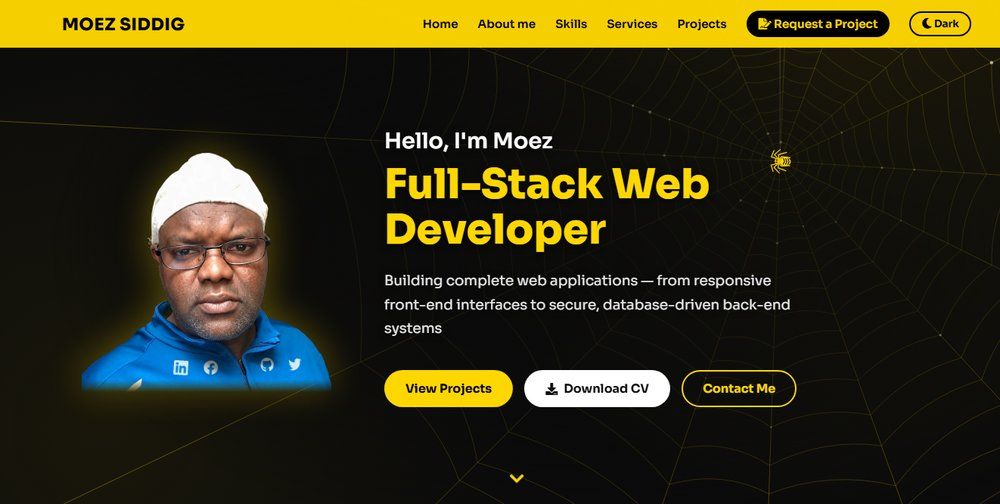
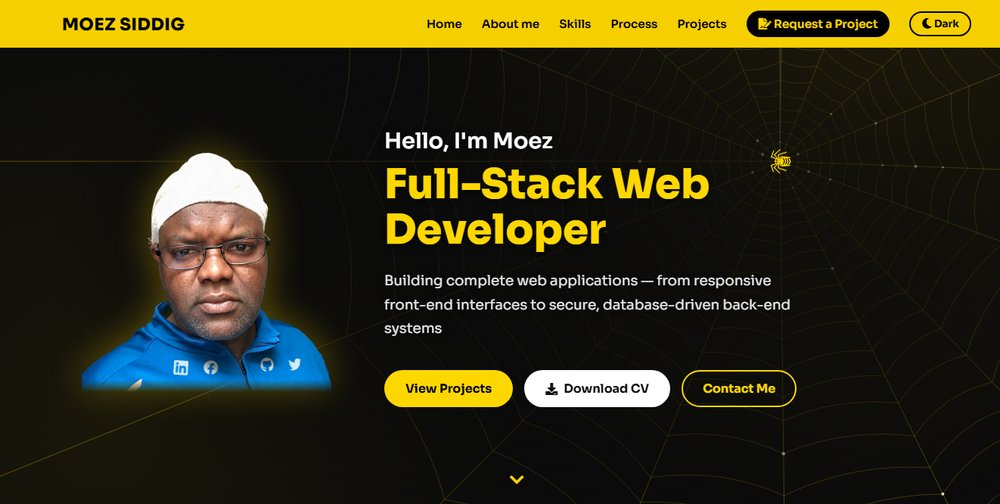
Replace Services with a 6-step web development life cycle
- New My Process section: Plan, Design, Develop, Test, Deploy, Maintain
- Numbered dark cards, 3/2/1 columns by screen size, menu link renamed to Process
- Refresh the hero thumbnail and social preview with the new menu

Changed region(s): [[0.403, 0.0298, 0.651, 0.0595], [0.496, 0.9226, 0.527, 0.9524]]

diff --git a/index.html b/index.html
@@ -26,7 +26,7 @@
   <!-- Font Awesome icons and main CSS file -->
   <link rel="stylesheet" href="https://cdnjs.cloudflare.com/ajax/libs/font-awesome/5.15.4/css/all.min.css" />
   <!-- ?v= changes with each release so browsers never mix old cached files with the new page -->
-  <link rel="stylesheet" href="css/style.css?v=2026-11-17g"/>
+  <link rel="stylesheet" href="css/style.css?v=2026-11-17h"/>
 </head>
 <body>
   <!-- Apply the saved dark mode before the page is drawn (avoids a light flash) -->
@@ -55,7 +55,7 @@
       <a href="#home">Home</a>
       <a href="#about-me">About me</a>
       <a href="#skills">Skills</a>
-      <a href="#services">Services</a>
+      <a href="#process">Process</a>
       <a href="#projects">Projects</a>
       <a href="#request" class="nav-cta">
         <i class="fas fa-file-signature"></i> Request a Project
@@ -182,27 +182,54 @@
     </p>
   </section>
 
-  <!-- Services section -->
-  <section class="services" id="services">
-    <h2 class="title">Services</h2>
+  <!-- Process section: what I offer, step by step through the web development life cycle -->
+  <section class="process" id="process">
+    <h2 class="title">My Process</h2>
+    <p class="section-intro">From idea to launch: I take care of the full web development life cycle.</p>
 
-    <div class="content">
-      <div class="card">
-        <div class="info">
-          <div class="card-icon"><i class="fas fa-code"></i></div>
-          <h3>Coding</h3>
-          <p>Building full-stack web applications — responsive front ends with HTML, CSS, and JavaScript, and back ends with Node.js, Express, and MongoDB.</p>
-        </div>
-      </div>
+    <ol class="process-grid">
+      <li class="step">
+        <span class="step-number">01</span>
+        <div class="step-icon"><i class="fas fa-clipboard-list"></i></div>
+        <h3>Plan</h3>
+        <p>Understand your goals, users, and features, then agree on the scope and timeline.</p>
+      </li>
 
-      <div class="card">
-        <div class="info">
-          <div class="card-icon"><i class="fas fa-palette"></i></div>
-          <h3>Design</h3>
-          <p>Creating simple and attractive user interfaces that make websites easy to use and visually appealing.</p>
-        </div>
-      </div>
-    </div>
+      <li class="step">
+        <span class="step-number">02</span>
+        <div class="step-icon"><i class="fas fa-pencil-ruler"></i></div>
+        <h3>Design</h3>
+        <p>Sketch the layout and create a clean, responsive interface that is easy to use.</p>
+      </li>
+
+      <li class="step">
+        <span class="step-number">03</span>
+        <div class="step-icon"><i class="fas fa-code"></i></div>
+        <h3>Develop</h3>
+        <p>Build the front end with HTML, CSS, JavaScript, and React, and the back end with Node.js, Express.js, and MongoDB.</p>
+      </li>
+
+      <li class="step">
+        <span class="step-number">04</span>
+        <div class="step-icon"><i class="fas fa-bug"></i></div>
+        <h3>Test</h3>
+        <p>Check every page, form, and screen size, and fix bugs before anyone else finds them.</p>
+      </li>
+
+      <li class="step">
+        <span class="step-number">05</span>
+        <div class="step-icon"><i class="fas fa-rocket"></i></div>
+        <h3>Deploy</h3>
+        <p>Publish the site online with GitHub Pages or Render, ready for real visitors.</p>
+      </li>
+
+      <li class="step">
+        <span class="step-number">06</span>
+        <div class="step-icon"><i class="fas fa-sync-alt"></i></div>
+        <h3>Maintain</h3>
+        <p>Keep it updated, secure, and improving after launch.</p>
+      </li>
+    </ol>
   </section>
 
   <!-- Projects section -->
@@ -378,7 +405,7 @@
   </footer>
 
   <!-- JavaScript Files -->
-  <script src="js/spider-web.js?v=2026-11-17g"></script>
-  <script src="js/project.js?v=2026-11-17g"></script>
+  <script src="js/spider-web.js?v=2026-11-17h"></script>
+  <script src="js/project.js?v=2026-11-17h"></script>
 </body>
 </html>

diff --git a/css/style.css b/css/style.css
@@ -489,44 +489,72 @@ section {
     margin-right: 6px;
 }
 
-/* ---------- Services ---------- */
-.card {
-    width: 320px;
+/* ---------- My Process (web development life cycle) ---------- */
+.section-intro {
+    text-align: center;
+    max-width: 640px;
+    margin: -15px auto 35px;
+    color: var(--muted);
+    line-height: 1.7;
+}
+
+.process-grid {
+    list-style: none;
+    max-width: 1050px;
+    margin: 0 auto;
+    display: grid;
+    grid-template-columns: repeat(3, 1fr);
+    gap: 22px;
+}
+
+.step {
+    position: relative;
     background: linear-gradient(160deg, #1b1b1b, var(--black));
     border: 1px solid rgba(255, 215, 0, 0.25);
     border-radius: 18px;
-    padding: 32px 26px;
-    text-align: center;
+    padding: 28px 26px;
     box-shadow: var(--shadow);
-    transition: 0.3s ease;
+    transition: transform 0.3s ease, border-color 0.3s ease;
 }
 
-.card:hover {
-    transform: translateY(-8px);
+.step:hover {
+    transform: translateY(-6px);
     border-color: var(--yellow);
 }
 
-.card-icon {
-    width: 60px;
-    height: 60px;
-    margin: 0 auto 18px;
+/* Big outlined step number in the corner */
+.step-number {
+    position: absolute;
+    top: 14px;
+    right: 20px;
+    font-size: 2.6rem;
+    font-weight: 800;
+    line-height: 1;
+    color: transparent;
+    -webkit-text-stroke: 1.5px rgba(255, 215, 0, 0.45);
+}
+
+.step-icon {
+    width: 54px;
+    height: 54px;
+    margin-bottom: 16px;
     border-radius: 50%;
     display: flex;
     align-items: center;
     justify-content: center;
     background-color: var(--yellow);
     color: black;
-    font-size: 1.4rem;
+    font-size: 1.3rem;
 }
 
-.info h3 {
+.step h3 {
     color: var(--yellow);
-    font-size: 1.35em;
+    font-size: 1.3em;
     font-weight: 700;
-    margin-bottom: 12px;
+    margin-bottom: 10px;
 }
 
-.info p {
+.step p {
     color: #e6e6e6;
     line-height: 1.7;
 }
@@ -853,7 +881,7 @@ body.dark-mode .page-web {
    Cards, form fields, the hero and the footer keep solid backgrounds. */
 body.dark-mode .about-me,
 body.dark-mode .skills,
-body.dark-mode .services,
+body.dark-mode .process,
 body.dark-mode .projects,
 body.dark-mode .request {
     background-color: transparent;
@@ -996,6 +1024,19 @@ body.dark-mode .request {
     .footer-container {
         flex-direction: column;
         text-align: center;
+    }
+}
+
+/* Process steps: 2 columns on tablets, 1 column on phones */
+@media (max-width: 860px) {
+    .process-grid {
+        grid-template-columns: repeat(2, 1fr);
+    }
+}
+
+@media (max-width: 560px) {
+    .process-grid {
+        grid-template-columns: 1fr;
     }
 }
 
